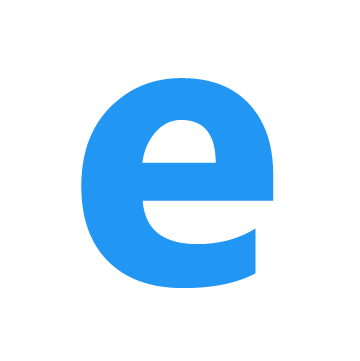
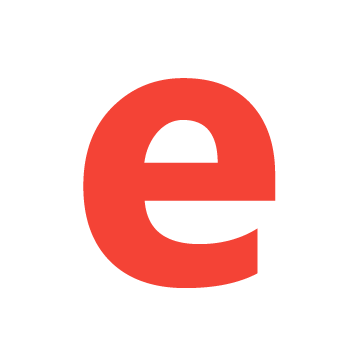
agrengado loader

Changed region(s): [[0.2139, 0.2133, 0.7639, 0.8227]]

diff --git a/public/js/script.js b/public/js/script.js
@@ -5,7 +5,7 @@ estatutoApp.config(['$mdThemingProvider', '$mdIconProvider','$routeProvider',
 
 		$mdThemingProvider.
       theme('default')
-    		.primaryPalette('blue')
+    		.primaryPalette('red')
     		.accentPalette('indigo')
 
     $mdIconProvider
@@ -21,7 +21,7 @@ estatutoApp.config(['$mdThemingProvider', '$mdIconProvider','$routeProvider',
       }).
       when('/buscar/:type/:number/', {
         templateUrl: 'templates/index/searchParticular.jade',
-        controller: 'searchParticular',
+        controller: 'searchParticular'      
       }).  
       when('/buscar/:type/:number/:todos?', {
         templateUrl: 'templates/index/searchTypeArts.jade',
@@ -34,8 +34,9 @@ estatutoApp.config(['$mdThemingProvider', '$mdIconProvider','$routeProvider',
 ])
 
 estatutoApp.run( function($rootScope, $location, $mdSidenav) {
+
   $rootScope.$on( "$routeChangeStart", function(event, next, current) {     
-    $mdSidenav('left').close()
+    $mdSidenav('left').close()    
   });
 })
 
@@ -44,13 +45,16 @@ estatutoApp.controller('indexController', function(){
 
 estatutoApp.controller('AppCtrl', function($scope, $mdSidenav,$timeout,$mdBottomSheet,$mdDialog,$log,$location,$anchorScroll){
   //toggleSidenav
+  $scope.cargando = true;
+
+
   $scope.toggleSidenav = function(menuId) {
 
       $mdSidenav(menuId).toggle();
   };
-
+  
   $scope.barTop = 'Inicio'
-
+  
   //showAyuda
   $scope.alert = '';
   $scope.showGridBottomSheet = function($event) {
@@ -113,6 +117,11 @@ estatutoApp.controller('AppCtrl', function($scope, $mdSidenav,$timeout,$mdBottom
     $scope.openHistory.val = $scope.openHistory.val === false ? true: false;
     $scope.openHistory.label = $scope.openHistory.val === false ? 'ocultar': 'ver';
   };
+
+  $scope.hideCargando = function() {
+    var c = document.getElementById('cargando')
+    c.style.display = 'none'
+  }
 });
 
 estatutoApp.controller('ListBottomSheetCtrl', function($scope, $mdBottomSheet) {
@@ -136,7 +145,8 @@ estatutoApp.controller('searchParticular', function($scope, $routeParams,$http,$
 
   $http.
     get(url).
-    success(function(data){    
+    success(function(data){   
+      $scope.hideCargando()
       $scope.res = data           
       if(!data.error) {
         
@@ -159,7 +169,7 @@ estatutoApp.controller('searchTypeArts', function($scope, $routeParams,$http,$sc
   $http.
     get(url).
     success(function(data){   
-      console.log(data)     
+      $scope.hideCargando()        
       $scope.res = data
 
       if(!data.error) {
